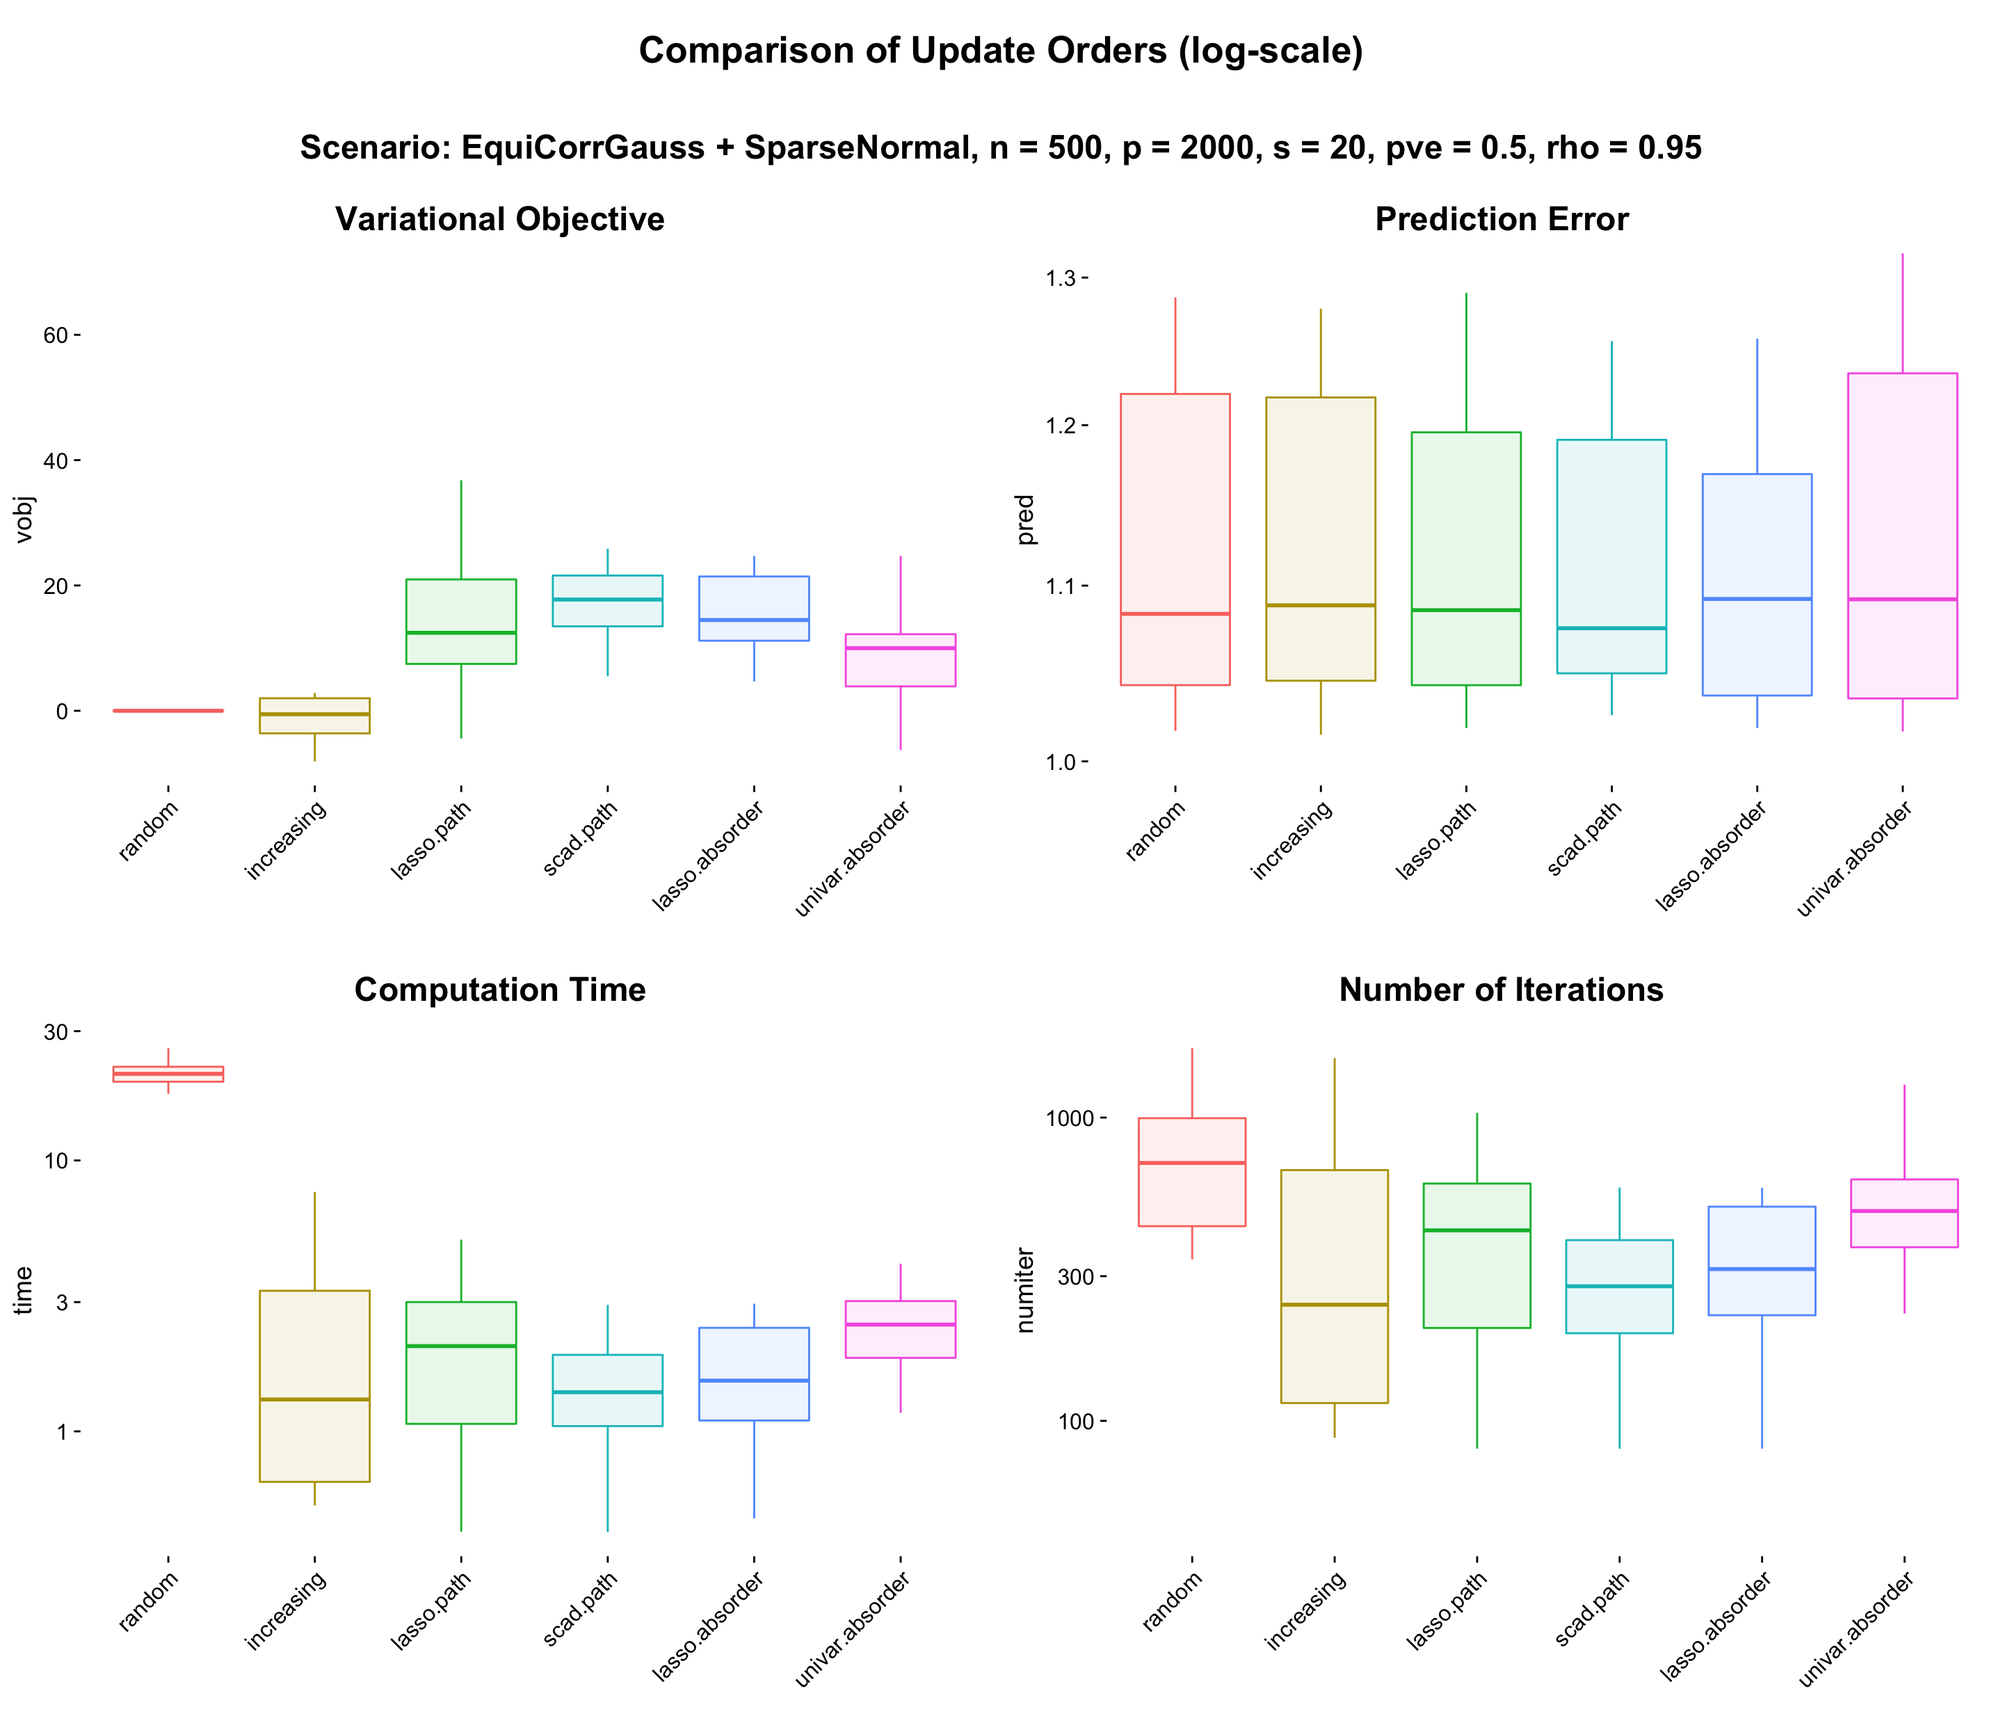
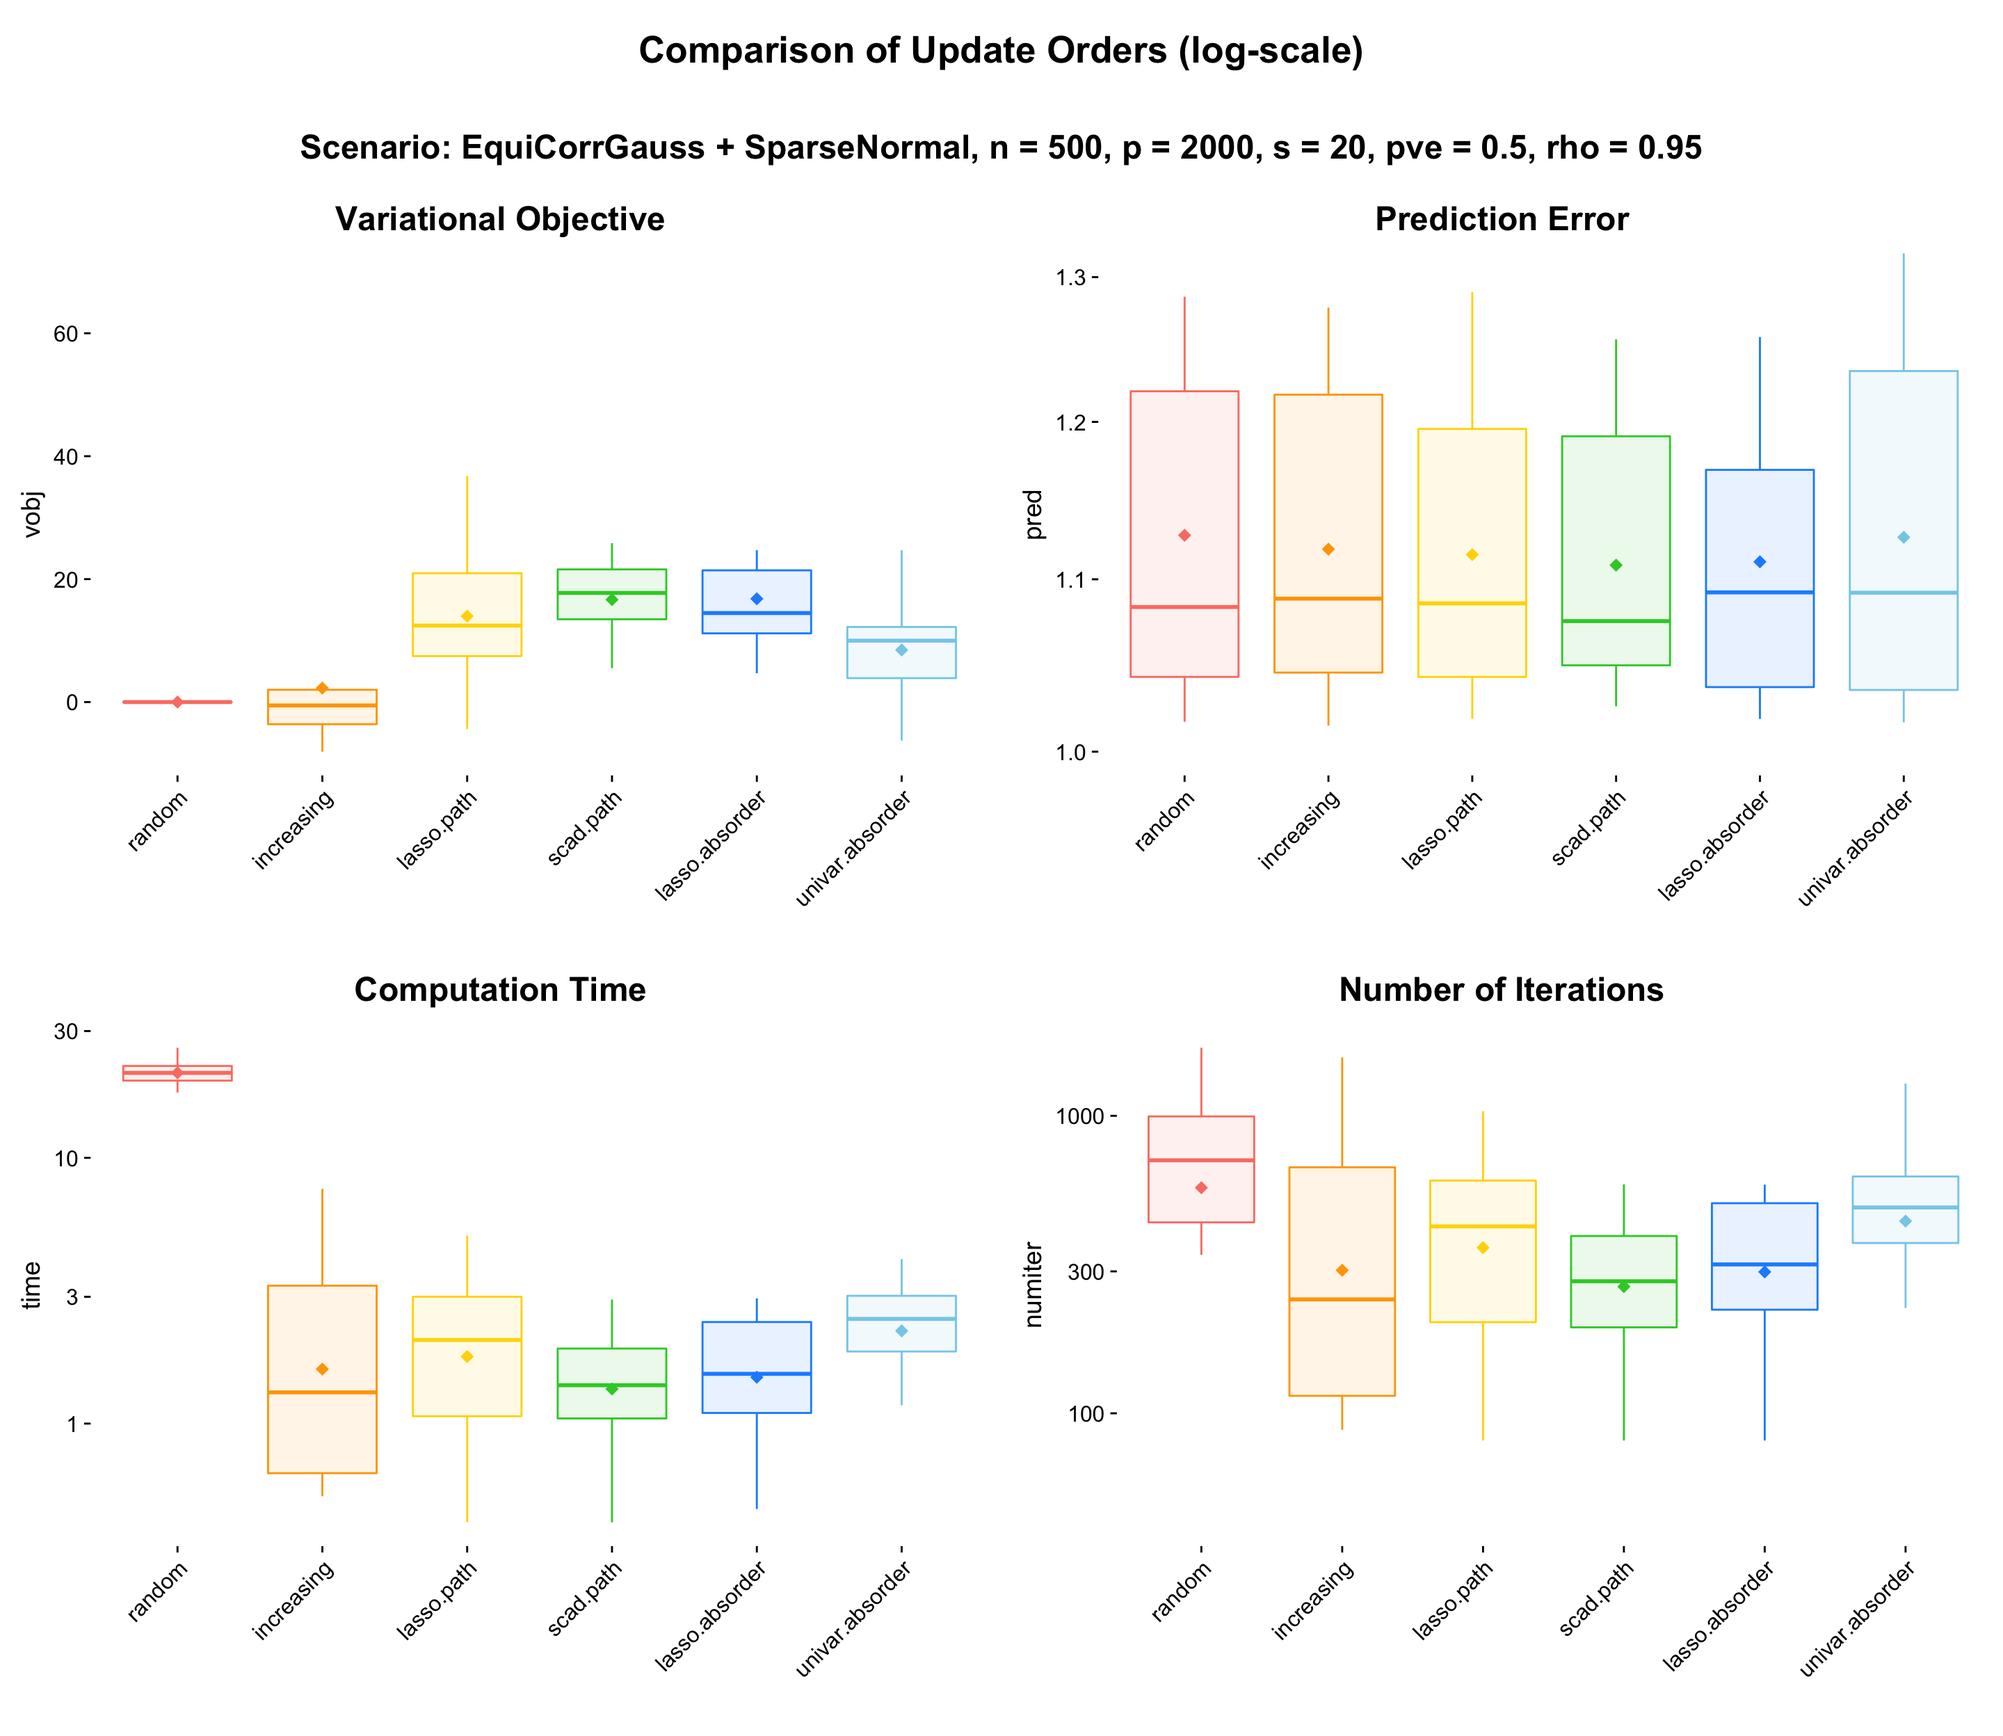
Build site.

diff --git a/docs/Result11_UpdateOrder.html b/docs/Result11_UpdateOrder.html
@@ -7,7 +7,6 @@
 <meta charset="utf-8" />
 <meta http-equiv="Content-Type" content="text/html; charset=utf-8" />
 <meta name="generator" content="pandoc" />
-<meta http-equiv="X-UA-Compatible" content="IE=EDGE" />
 
 
 
@@ -88,6 +87,7 @@ code {
 }
 img {
   max-width:100%;
+  height: auto;
 }
 .tabbed-pane {
   padding-top: 12px;
@@ -248,12 +248,56 @@ $(document).ready(function () {
 }
 </style>
 
+<script>
+$(document).ready(function () {
+  window.buildTabsets("TOC");
+});
+
+$(document).ready(function () {
+  $('.tabset-dropdown > .nav-tabs > li').click(function () {
+    $(this).parent().toggleClass('nav-tabs-open')
+  });
+});
+</script>
+
 <!-- code folding -->
 <style type="text/css">
 .code-folding-btn { margin-bottom: 4px; }
 </style>
+<script>
+$(document).ready(function () {
+  window.initializeCodeFolding("hide" === "show");
+});
+</script>
 
 
+
+<script>
+$(document).ready(function ()  {
+
+    // move toc-ignore selectors from section div to header
+    $('div.section.toc-ignore')
+        .removeClass('toc-ignore')
+        .children('h1,h2,h3,h4,h5').addClass('toc-ignore');
+
+    // establish options
+    var options = {
+      selectors: "h1,h2,h3",
+      theme: "bootstrap3",
+      context: '.toc-content',
+      hashGenerator: function (text) {
+        return text.replace(/[.\\/?&!#<>]/g, '').replace(/\s/g, '_').toLowerCase();
+      },
+      ignoreSelector: ".toc-ignore",
+      scrollTo: 0
+    };
+    options.showAndHide = true;
+    options.smoothScroll = true;
+
+    // tocify
+    var toc = $("#TOC").tocify(options).data("toc-tocify");
+});
+</script>
 
 <style type="text/css">
 
@@ -302,6 +346,8 @@ div.tocify {
 
 .tocify-subheader .tocify-item {
   font-size: 0.90em;
+  padding-left: 25px;
+  text-indent: 0;
 }
 
 .tocify .list-group-item {
@@ -406,17 +452,17 @@ div.section {
 <div class="tab-content">
 <div id="summary" class="tab-pane fade in active">
 <p>
-<strong>Last updated:</strong> 2019-10-21
+<strong>Last updated:</strong> 2019-10-22
 </p>
 <p>
-<strong>Checks:</strong> <span class="glyphicon glyphicon-ok text-success" aria-hidden="true"></span> 7 <span class="glyphicon glyphicon-exclamation-sign text-danger" aria-hidden="true"></span> 0
+<strong>Checks:</strong> <span class="glyphicon glyphicon-ok text-success" aria-hidden="true"></span> 6 <span class="glyphicon glyphicon-exclamation-sign text-danger" aria-hidden="true"></span> 0
 </p>
 <p>
 <strong>Knit directory:</strong> <code>mr-ash-workflow/</code> <span class="glyphicon glyphicon-question-sign" aria-hidden="true" title="This is the local directory in which the code in this file was executed."> </span>
 </p>
 <p>
 This reproducible <a href="http://rmarkdown.rstudio.com">R Markdown</a> analysis was created with <a
-  href="https://github.com/jdblischak/workflowr">workflowr</a> (version 1.4.0). The <em>Checks</em> tab describes the reproducibility checks that were applied when the results were created. The <em>Past versions</em> tab lists the development history.
+  href="https://github.com/jdblischak/workflowr">workflowr</a> (version 1.3.0). The <em>Checks</em> tab describes the reproducibility checks that were applied when the results were created. The <em>Past versions</em> tab lists the development history.
 </p>
 <hr>
 </div>
@@ -485,22 +531,10 @@ This reproducible <a href="http://rmarkdown.rstudio.com">R Markdown</a> analysis
 <div class="panel panel-default">
 <div class="panel-heading">
 <p class="panel-title">
-<a data-toggle="collapse" data-parent="#workflowr-checks" href="#strongFilepathsstrongrelative"> <span class="glyphicon glyphicon-ok text-success" aria-hidden="true"></span> <strong>File paths:</strong> relative </a>
+<a data-toggle="collapse" data-parent="#workflowr-checks" href="#strongRepositoryversionstrongahrefhttpsgithubcomstephenslabmrashworkflowtree7f3229161bfbc639b7c0b22964e92adcb267178btargetblank7f32291a"> <span class="glyphicon glyphicon-ok text-success" aria-hidden="true"></span> <strong>Repository version:</strong> <a href="https://github.com/stephenslab/mr-ash-workflow/tree/7f3229161bfbc639b7c0b22964e92adcb267178b" target="_blank">7f32291</a> </a>
 </p>
 </div>
-<div id="strongFilepathsstrongrelative" class="panel-collapse collapse">
-<div class="panel-body">
-<p>Great job! Using relative paths to the files within your workflowr project makes it easier to run your code on other machines.</p>
-</div>
-</div>
-</div>
-<div class="panel panel-default">
-<div class="panel-heading">
-<p class="panel-title">
-<a data-toggle="collapse" data-parent="#workflowr-checks" href="#strongRepositoryversionstrongahrefhttpsgithubcomstephenslabmrashworkflowtree506cf214cf386d7341133d796d8a5ab6825e6455targetblank506cf21a"> <span class="glyphicon glyphicon-ok text-success" aria-hidden="true"></span> <strong>Repository version:</strong> <a href="https://github.com/stephenslab/mr-ash-workflow/tree/506cf214cf386d7341133d796d8a5ab6825e6455" target="_blank">506cf21</a> </a>
-</p>
-</div>
[2 lines of base64/hex data omitted]
 <div class="panel-body">
 <p>
 Great! You are using Git for version control. Tracking code development and connecting the code version to the results is critical for reproducibility. The version displayed above was the version of the Git repository at the time these results were generated. <br><br> Note that you need to be careful to ensure that all relevant files for the analysis have been committed to Git prior to generating the results (you can use <code>wflow_publish</code> or <code>wflow_git_commit</code>). workflowr only checks the R Markdown file, but you know if there are other scripts or data files that it depends on. Below is the status of the Git repository when the results were generated:
@@ -509,16 +543,26 @@ Great! You are using Git for version control. Tracking code development and conn
 Ignored files:
     Ignored:    .Rhistory
     Ignored:    .Rproj.user/
+    Ignored:    ETA_1_lambda.dat
+    Ignored:    ETA_1_parBayesB.dat
     Ignored:    analysis/ETA_1_lambda.dat
     Ignored:    analysis/ETA_1_parBayesB.dat
     Ignored:    analysis/mu.dat
     Ignored:    analysis/varE.dat
+    Ignored:    mu.dat
+    Ignored:    varE.dat
 
 Untracked files:
     Untracked:  .DS_Store
-    Untracked:  .Rapp.history
-    Untracked:  docs/figure/Result9_Changepoint.Rmd/
-    Untracked:  results/estsigma.RDS
+    Untracked:  analysis/Result13_LocalCorrelation.Rmd
+    Untracked:  docs/figure/Result13_LocalCorrelation.Rmd/
+    Untracked:  results/equicorr.RDS
+    Untracked:  results/localcorr.RDS
+    Untracked:  results/localcorr.REDS
+
+Unstaged changes:
+    Modified:   analysis/index.Rmd
+    Modified:   code/sim_wrapper.R
 
 </code></pre>
 <p>
@@ -557,6 +601,40 @@ Message
 </tr>
 </thead>
 <tbody>
+<tr>
+<td>
+Rmd
+</td>
+<td>
+<a href="https://github.com/stephenslab/mr-ash-workflow/blob/7f3229161bfbc639b7c0b22964e92adcb267178b/analysis/Result11_UpdateOrder.Rmd" target="_blank">7f32291</a>
+</td>
+<td>
+Youngseok Kim
+</td>
+<td>
+2019-10-22
+</td>
+<td>
+wflow_publish(“analysis/Result11_UpdateOrder.Rmd”)
+</td>
+</tr>
+<tr>
+<td>
+html
+</td>
+<td>
+<a href="https://rawcdn.githack.com/stephenslab/mr-ash-workflow/7d6c1c84c7b26eff99781c65464cfcea54102022/docs/Result11_UpdateOrder.html" target="_blank">7d6c1c8</a>
+</td>
+<td>
+Youngseok
+</td>
+<td>
+2019-10-21
+</td>
+<td>
+Build site.
+</td>
+</tr>
 <tr>
 <td>
 html
@@ -656,15 +734,15 @@ source(&#39;code/sim_wrapper.R&#39;)</code></pre>
 <pre class="r"><code>sdat = readRDS(&quot;results/updateorder_rho0.95.RDS&quot;)
 sdat$fit = factor(sdat$order, levels = c(&quot;random&quot;,&quot;increasing&quot;,&quot;lasso.path&quot;,
                                          &quot;scad.path&quot;,&quot;lasso.absorder&quot;,&quot;univar.absorder&quot;))
-
-p1 = my.box(sdat, &quot;fit&quot;, &quot;vobj&quot;, values = col) +
+col = rev(c(&quot;skyblue&quot;,&quot;dodgerblue&quot;,&quot;limegreen&quot;,&quot;gold&quot;,&quot;orange&quot;,&quot;salmon&quot;))
+p1 = my.box2(sdat, &quot;fit&quot;, &quot;vobj&quot;, cols = col) +
   theme(axis.line    = element_blank(),
         axis.text.x  = element_text(angle = 45,hjust = 1),
         legend.position = &quot;none&quot;)
 subtitle  = ggdraw() + draw_label(&quot;Variational Objective&quot;, fontface  = &#39;bold&#39;, size = 18)
 p1 = plot_grid(subtitle, p1, ncol = 1, rel_heights = c(0.06,0.95))
 
-p2 = my.box(sdat, &quot;fit&quot;, &quot;pred&quot;, values = col) +
+p2 = my.box2(sdat, &quot;fit&quot;, &quot;pred&quot;, cols = col) +
   theme(axis.line    = element_blank(),
         axis.text.x  = element_text(angle = 45,hjust = 1),
         legend.position = &quot;none&quot;) +
@@ -673,7 +751,7 @@ p2 = my.box(sdat, &quot;fit&quot;, &quot;pred&quot;, values = col) +
 subtitle  = ggdraw() + draw_label(&quot;Prediction Error&quot;, fontface  = &#39;bold&#39;, size = 18)
 p2 = plot_grid(subtitle, p2, ncol = 1, rel_heights = c(0.06,0.95))
 
-p3 = my.box(sdat, &quot;fit&quot;, &quot;time&quot;, values = col) +
+p3 = my.box2(sdat, &quot;fit&quot;, &quot;time&quot;, cols = col) +
   theme(axis.line    = element_blank(),
         axis.text.x  = element_text(angle = 45,hjust = 1),
         legend.position = &quot;none&quot;) +
@@ -681,7 +759,7 @@ p3 = my.box(sdat, &quot;fit&quot;, &quot;time&quot;, values = col) +
 subtitle  = ggdraw() + draw_label(&quot;Computation Time&quot;, fontface  = &#39;bold&#39;, size = 18)
 p3 = plot_grid(subtitle, p3, ncol = 1, rel_heights = c(0.06,0.95))
 
-p4 = my.box(sdat, &quot;fit&quot;, &quot;numiter&quot;, values = col) +
+p4 = my.box2(sdat, &quot;fit&quot;, &quot;numiter&quot;, cols = col) +
   theme(axis.line    = element_blank(),
         axis.text.x  = element_text(angle = 45,hjust = 1),
         legend.position = &quot;none&quot;) +
@@ -855,7 +933,7 @@ tdat1 = data.frame(pred = c(pred), vobj = c(vobj), time = c(time),
 <pre class="r"><code>sessionInfo()</code></pre>
 <pre><code>R version 3.5.3 (2019-03-11)
 Platform: x86_64-apple-darwin15.6.0 (64-bit)
-Running under: macOS Mojave 10.14
+Running under: macOS High Sierra 10.13.3
 
 Matrix products: default
 BLAS: /Library/Frameworks/R.framework/Versions/3.5/Resources/lib/libRblas.0.dylib
@@ -868,25 +946,25 @@ attached base packages:
 [1] stats     graphics  grDevices utils     datasets  methods   base     
 
 other attached packages:
- [1] varbvs_2.5-16 L0Learn_1.2.0 ncvreg_3.11-1 varbvs2_0.1-1 glmnet_2.0-18
- [6] foreach_1.4.7 BGLR_1.0.8    susieR_0.8.0  cowplot_1.0.0 ggplot2_3.2.1
+ [1] varbvs_2.6-5  L0Learn_1.1.0 ncvreg_3.11-1 varbvs2_0.1-1 glmnet_2.0-16
+ [6] foreach_1.4.4 BGLR_1.0.8    susieR_0.7.1  cowplot_0.9.4 ggplot2_3.2.1
 [11] Matrix_1.2-17
 
 loaded via a namespace (and not attached):
  [1] Rcpp_1.0.2          RColorBrewer_1.1-2  plyr_1.8.4         
- [4] compiler_3.5.3      pillar_1.4.2        git2r_0.26.1       
- [7] workflowr_1.4.0     iterators_1.0.12    tools_3.5.3        
-[10] digest_0.6.21       evaluate_0.14       tibble_2.1.3       
-[13] gtable_0.3.0        lattice_0.20-38     pkgconfig_2.0.3    
-[16] rlang_0.4.0         yaml_2.2.0          xfun_0.9           
+ [4] compiler_3.5.3      pillar_1.3.1        git2r_0.25.2       
+ [7] workflowr_1.3.0     iterators_1.0.10    tools_3.5.3        
+[10] digest_0.6.18       evaluate_0.13       tibble_2.1.1       
+[13] gtable_0.3.0        lattice_0.20-38     pkgconfig_2.0.2    
+[16] rlang_0.4.0         yaml_2.2.0          xfun_0.6           
 [19] withr_2.1.2         stringr_1.4.0       dplyr_0.8.3        
-[22] knitr_1.25          fs_1.3.1            rprojroot_1.3-2    
+[22] knitr_1.22          fs_1.3.0            rprojroot_1.3-2    
 [25] grid_3.5.3          tidyselect_0.2.5    glue_1.3.1         
-[28] R6_2.4.0            rmarkdown_1.15      latticeExtra_0.6-28
+[28] R6_2.4.0            rmarkdown_1.12      latticeExtra_0.6-28
 [31] reshape2_1.4.3      purrr_0.3.2         magrittr_1.5       
-[34] whisker_0.4         codetools_0.2-16    backports_1.1.4    
-[37] scales_1.0.0        htmltools_0.3.6     assertthat_0.2.1   
-[40] colorspace_1.4-1    labeling_0.3        nor1mix_1.3-0      
+[34] whisker_0.3-2       codetools_0.2-16    backports_1.1.4    
+[37] scales_1.0.0        htmltools_0.4.0     assertthat_0.2.1   
+[40] colorspace_1.4-1    labeling_0.3        nor1mix_1.2-3      
 [43] stringi_1.4.3       lazyeval_0.2.2      munsell_0.5.0      
 [46] truncnorm_1.0-8     crayon_1.3.4       </code></pre>
 </div>
@@ -922,54 +1000,6 @@ $(document).ready(function () {
 });
 
 
-</script>
-
-<!-- tabsets -->
-
-<script>
-$(document).ready(function () {
-  window.buildTabsets("TOC");
-});
-
-$(document).ready(function () {
-  $('.tabset-dropdown > .nav-tabs > li').click(function () {
-    $(this).parent().toggleClass('nav-tabs-open')
-  });
-});
-</script>
-
-<!-- code folding -->
-<script>
-$(document).ready(function () {
-  window.initializeCodeFolding("hide" === "show");
-});
-</script>
-
-<script>
-$(document).ready(function ()  {
-
-    // move toc-ignore selectors from section div to header
-    $('div.section.toc-ignore')
-        .removeClass('toc-ignore')
-        .children('h1,h2,h3,h4,h5').addClass('toc-ignore');
-
-    // establish options
-    var options = {
-      selectors: "h1,h2,h3",
-      theme: "bootstrap3",
-      context: '.toc-content',
-      hashGenerator: function (text) {
-        return text.replace(/[.\\/?&!#<>]/g, '').replace(/\s/g, '_').toLowerCase();
-      },
-      ignoreSelector: ".toc-ignore",
-      scrollTo: 0
-    };
-    options.showAndHide = true;
-    options.smoothScroll = true;
-
-    // tocify
-    var toc = $("#TOC").tocify(options).data("toc-tocify");
-});
 </script>
 
 <!-- dynamically load mathjax for compatibility with self-contained -->
